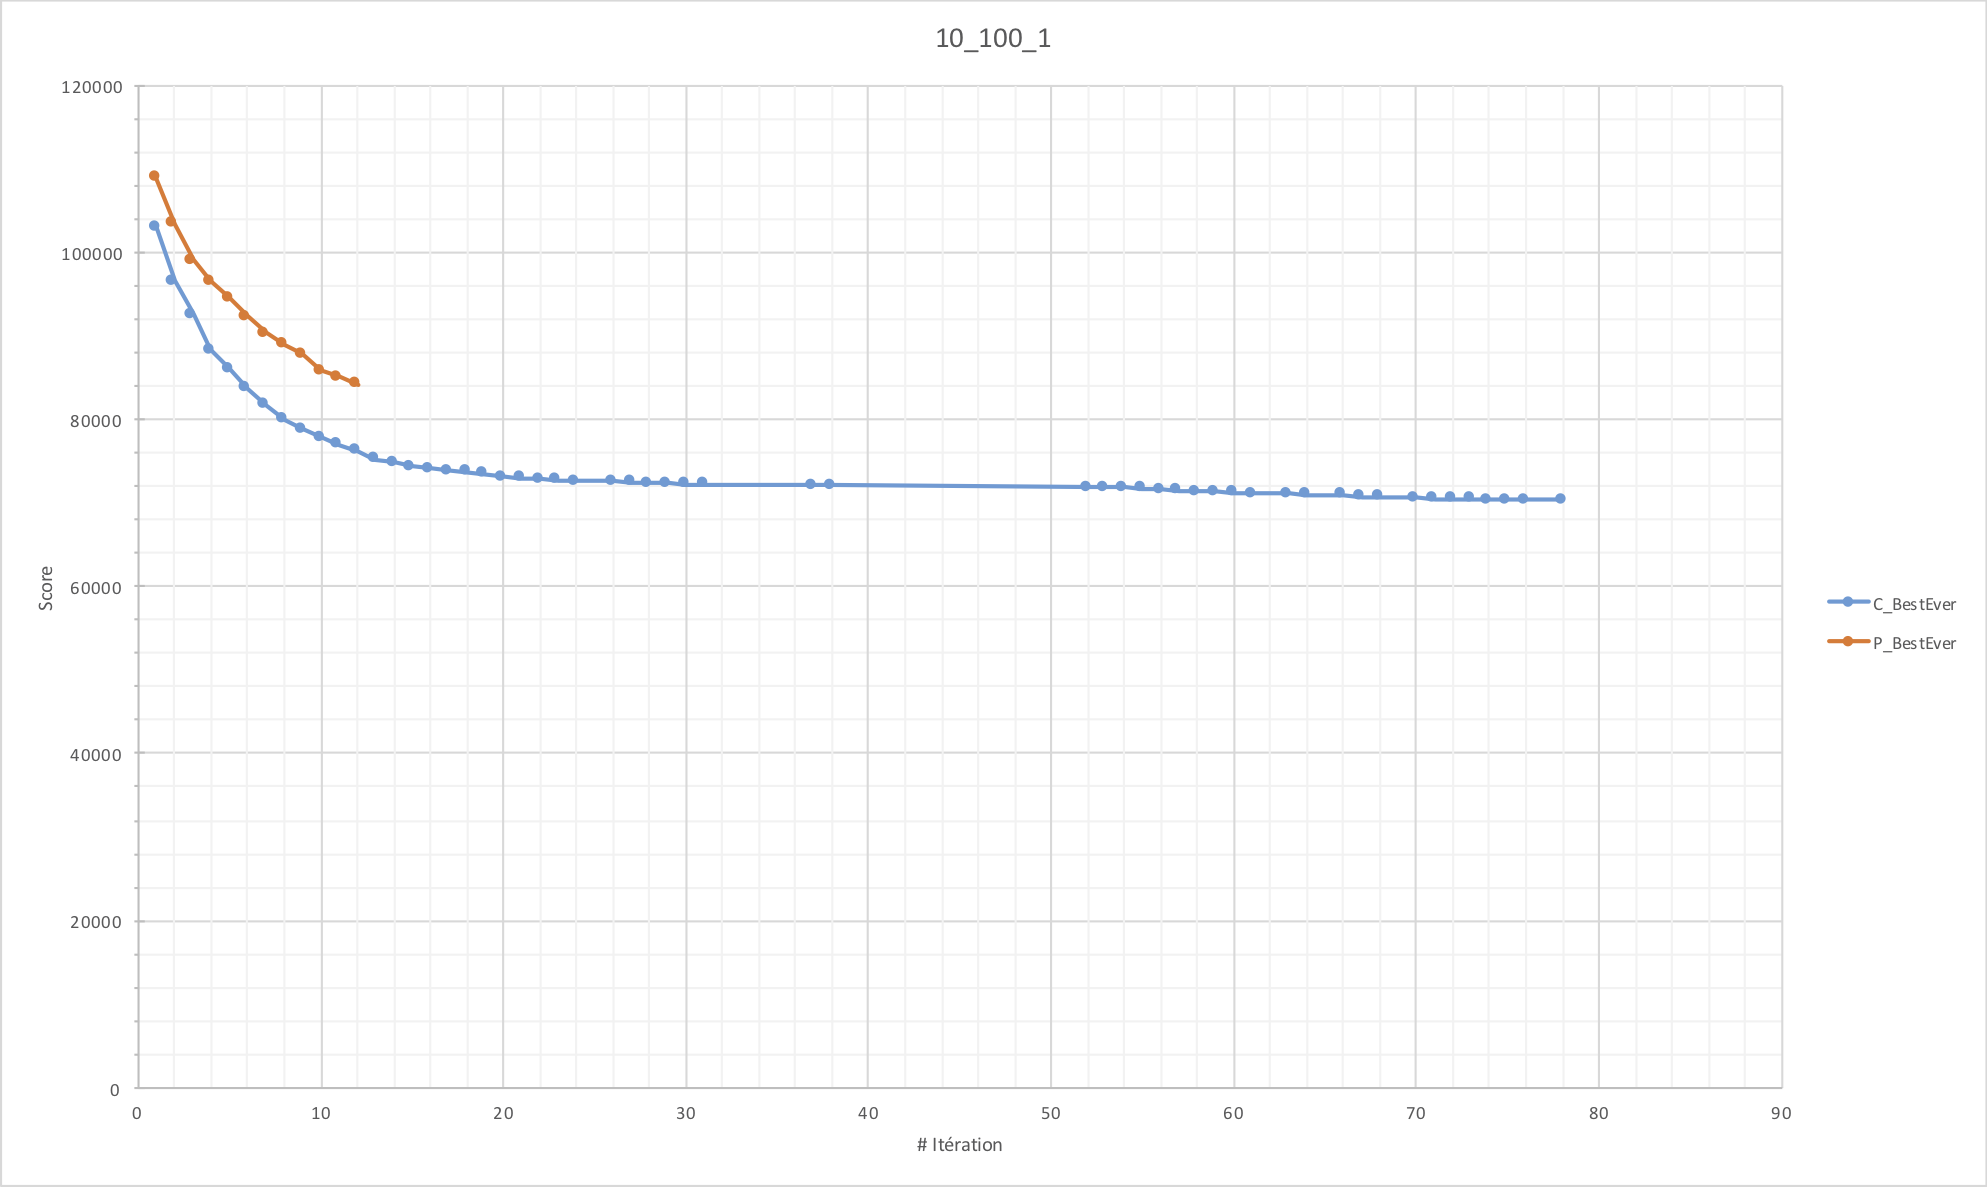
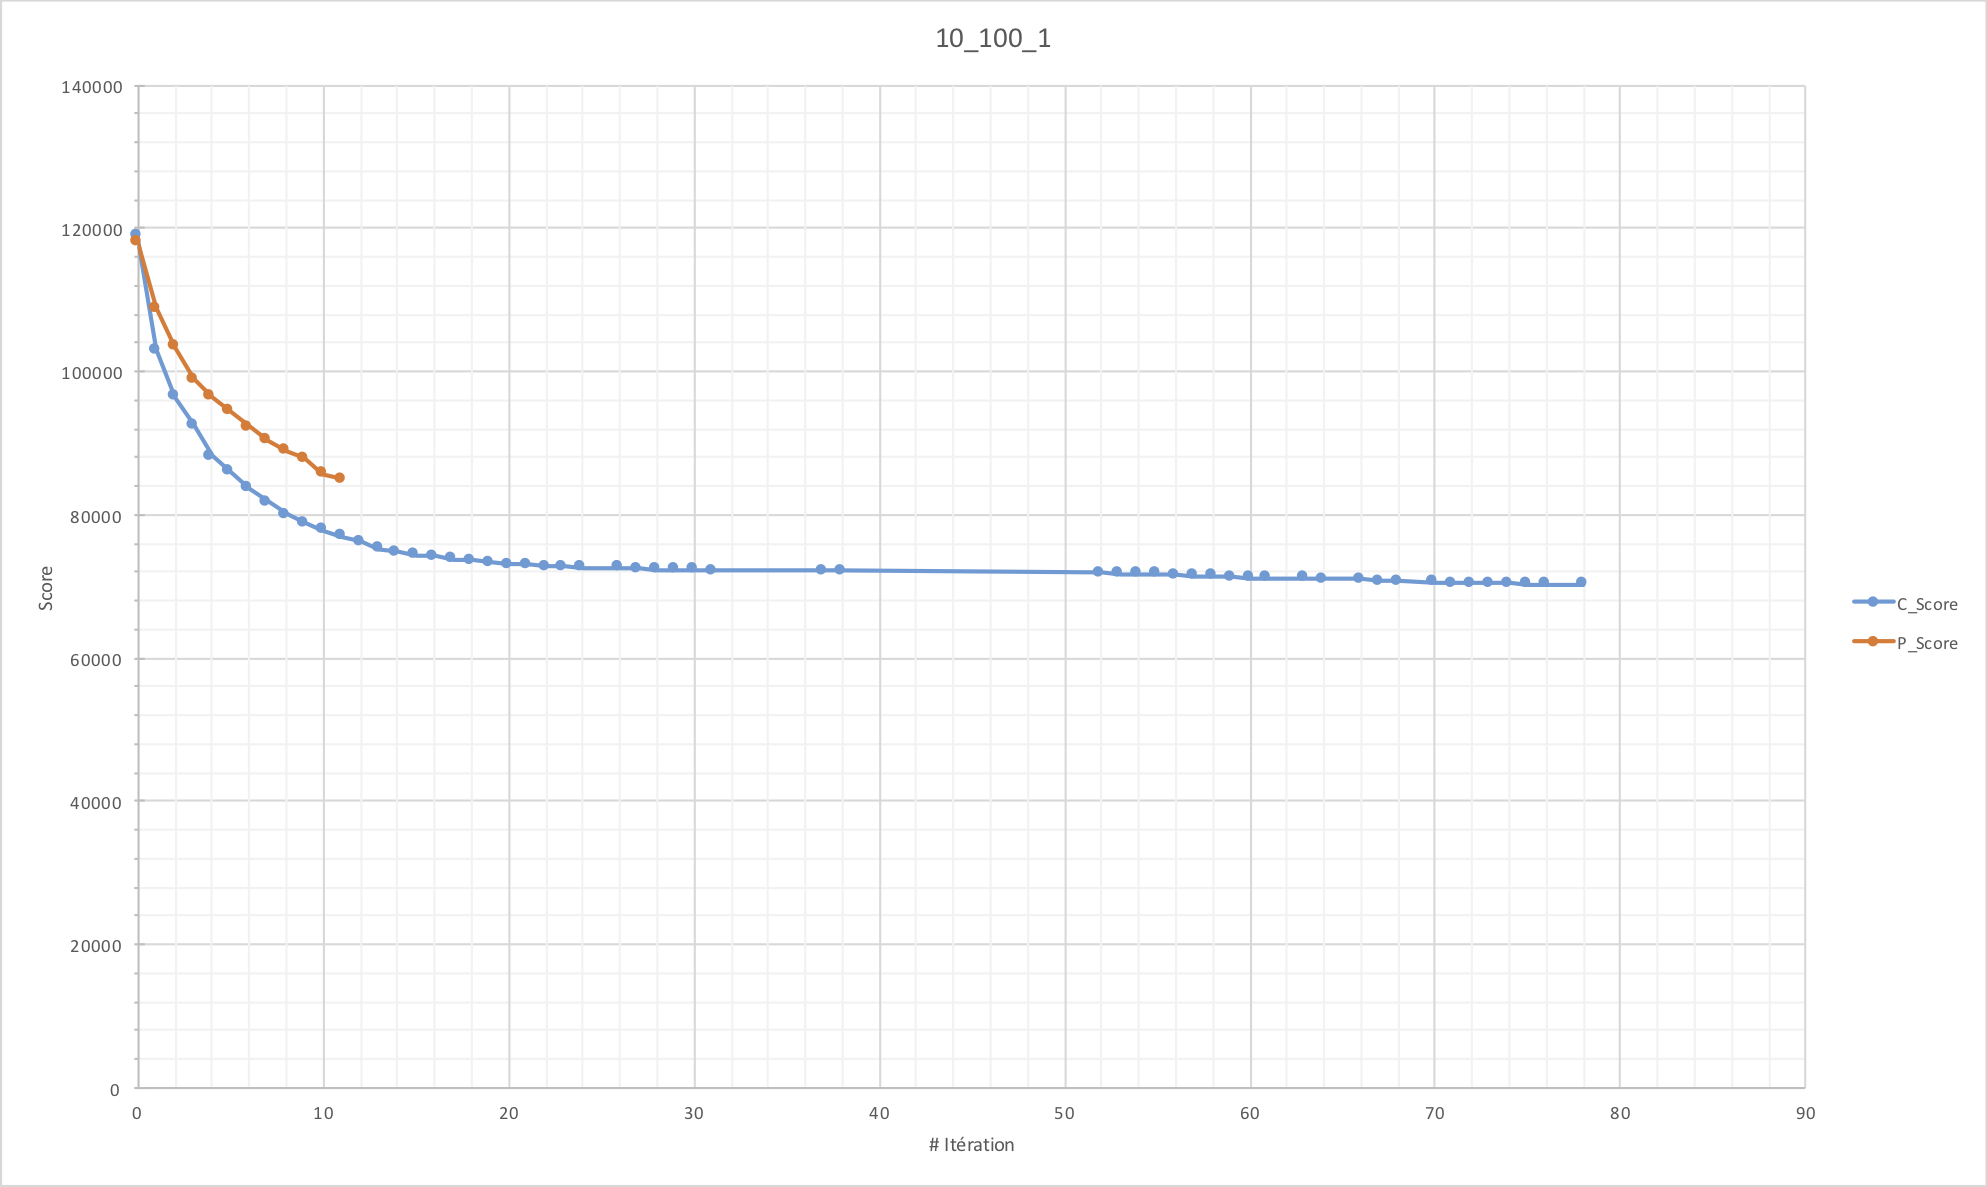
Charts with time

diff --git a/Rapport/Rapport_COUCHOUD_GRODECOEUR.tex b/Rapport/Rapport_COUCHOUD_GRODECOEUR.tex
@@ -526,13 +526,23 @@ searchFunctions[2] =
 		\appendix
 		\chapter{\label{exemplesGraphes}Résultats sur chaque type d'instance}
 			\img{5-20-1.png}{Instance à 5 machines et 20 tâches}{0.52}
+			\img{5-20-1-t.png}{Instance à 5 machines et 20 tâches}{0.52}
 			\img{5-50-1.png}{Instance à 5 machines et 50 tâches}{0.52}
+			\img{5-50-1-t.png}{Instance à 5 machines et 20 tâches}{0.52}
 			\img{5-100-1.png}{Instance à 5 machines et 100 tâches}{0.47}
+			\img{5-100-1-t.png}{Instance à 5 machines et 100 tâches}{0.47}
 			\img{5-150-1.png}{Instance à 5 machines et 150 tâches}{0.47}
+			\img{5-150-1-t.png}{Instance à 5 machines et 150 tâches}{0.47}
 			\img{5-200-1.png}{Instance à 5 machines et 200 tâches}{0.47}
+			\img{5-200-1-t.png}{Instance à 5 machines et 200 tâches}{0.47}
 			\img{10-20-1.png}{Instance à 10 machines et 20 tâches}{0.47}
+			\img{10-20-1-t.png}{Instance à 10 machines et 20 tâches}{0.47}
 			\img{10-50-1.png}{Instance à 10 machines et 50 tâches}{0.47}
+			\img{10-50-1-t.png}{Instance à 10 machines et 50 tâches}{0.47}
 			\img{10-100-1.png}{Instance à 10 machines et 100 tâches}{0.47}
+			\img{10-100-1-t.png}{Instance à 10 machines et 100 tâches}{0.47}
 			\img{10-150-1.png}{Instance à 10 machines et 150 tâches}{0.47}
+			\img{10-150-1-t.png}{Instance à 10 machines et 150 tâches}{0.47}
 			\img{10-200-1.png}{Instance à 10 machines et 200 tâches}{0.5}
+			\img{10-200-1-t.png}{Instance à 10 machines et 200 tâches}{0.5}
 \end{document}
